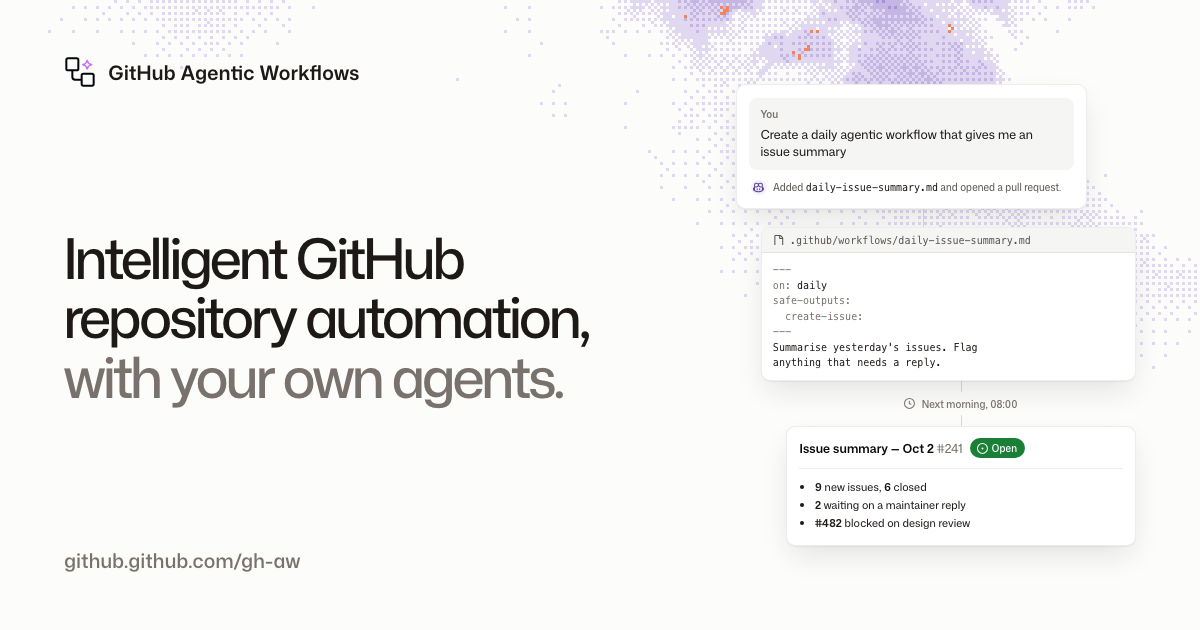
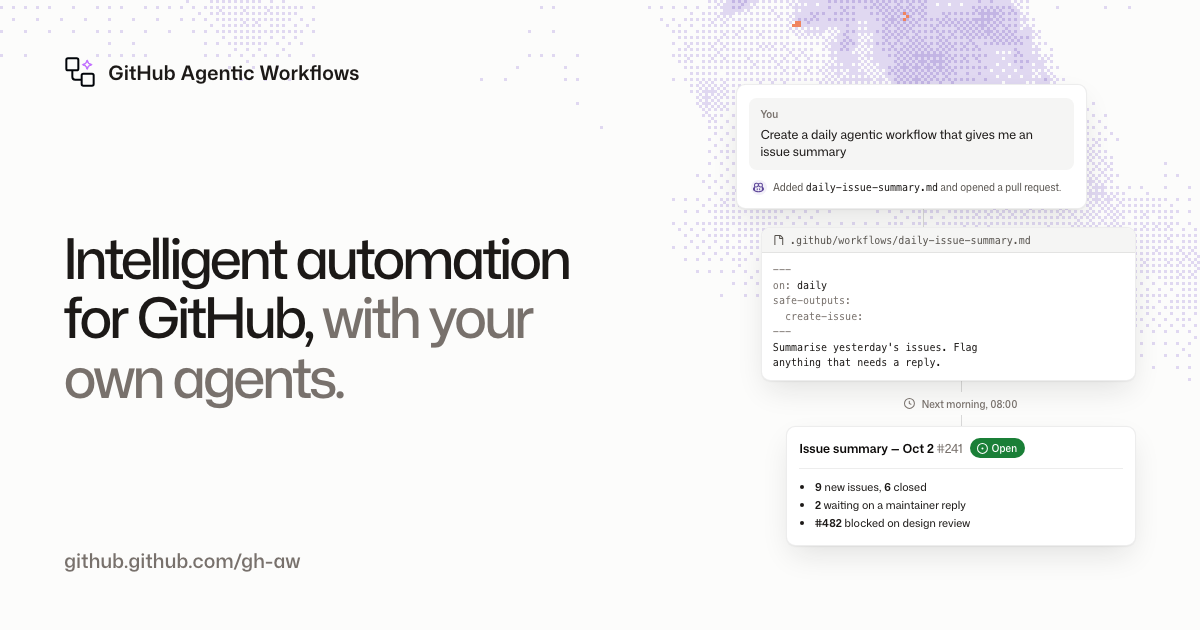
docs: refresh landing tagline and social card
Headline becomes "Intelligent automation for GitHub, with your own
agents." The subhead names Claude rather than Claude Code, adds small
inline engine logos, and calls out scale and cost controls. Meta
descriptions, footer tagline and the home OG image follow suit.

diff --git a/docs/tests/social-card.spec.ts b/docs/tests/social-card.spec.ts
@@ -22,7 +22,7 @@ test("gives the docs homepage a site-level social card", async ({ page }) => {
   await expect(page.locator('meta[property="og:title"]')).toHaveAttribute("content", "GitHub Agentic Workflows");
   await expect(page.locator('meta[property="og:type"]')).toHaveAttribute("content", "website");
   await expect(page.locator('meta[property="og:image"]')).toHaveAttribute("content", "https://github.github.com/gh-aw/og-home-1200x630.png");
-  await expect(page.locator('meta[property="og:image:alt"]')).toHaveAttribute("content", /repository automation/);
+  await expect(page.locator('meta[property="og:image:alt"]')).toHaveAttribute("content", /intelligent automation for GitHub/);
 });
 
 test("serves the social image", async ({ request }) => {
